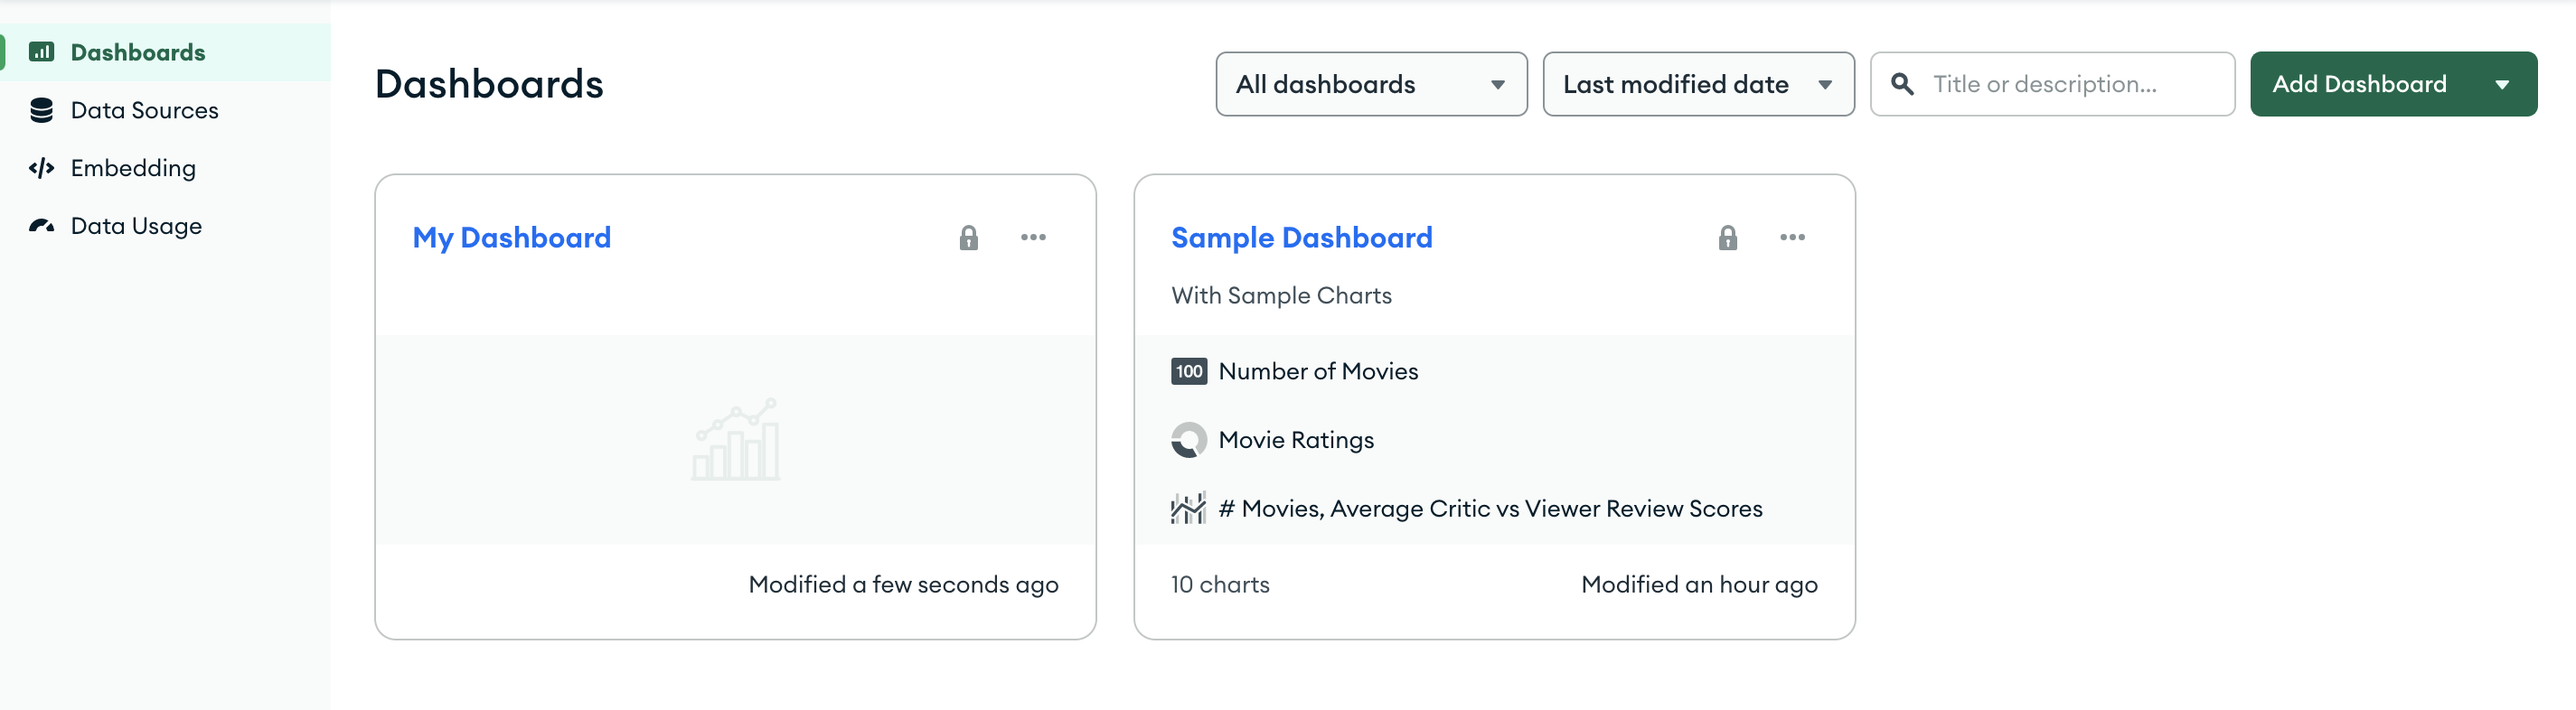
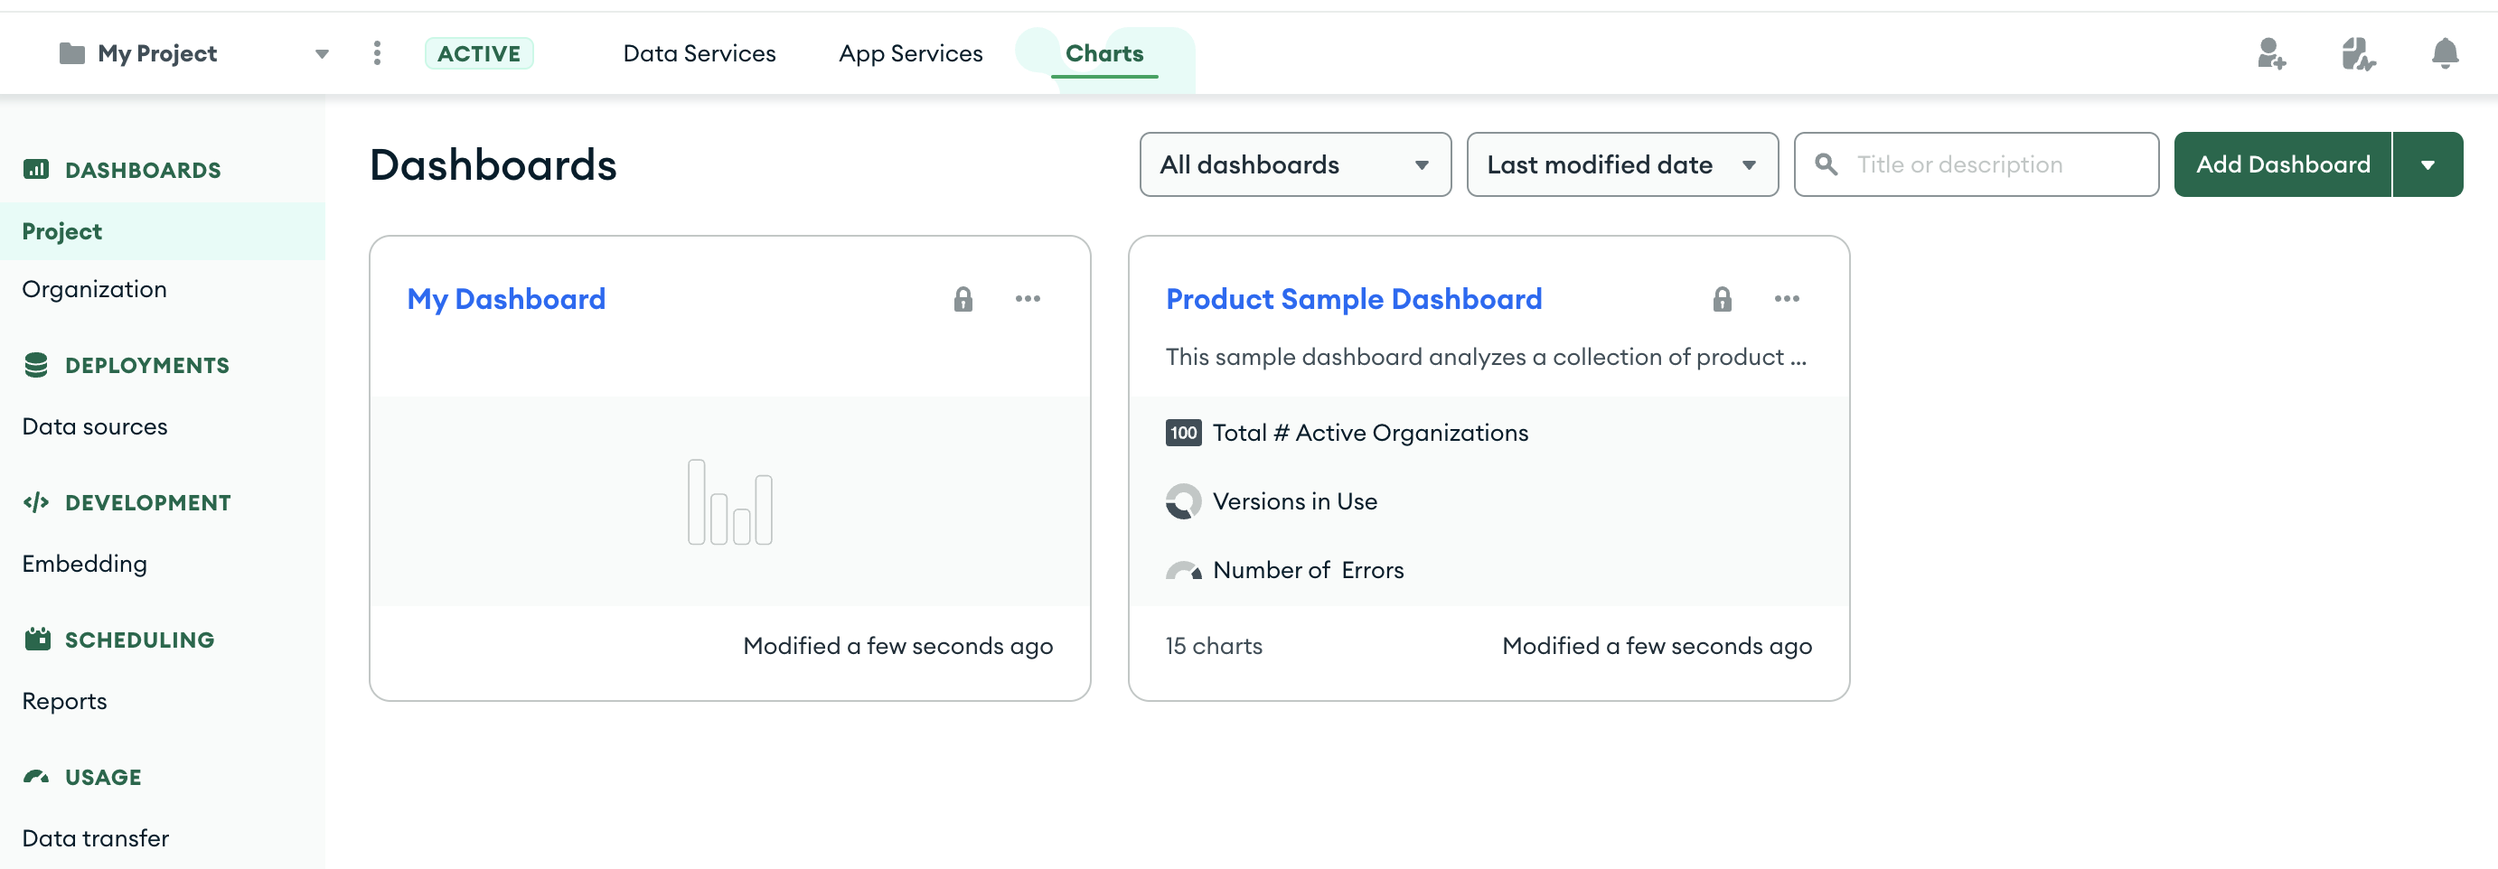
(DOCSP-32375) Update Dashboard landing (+ update Create a New Dashboard and Export a Dashboard procedures). (#615)
* (DOCSP-32375) edited Dashboards procedure.

* (DOCSP-32375) Formatting procedure.

* (DOCSP-32375) Formatting procedure.

* (DOCSP-32375) Formatting procedure.

* (DOCSP-32375) Added directions to reach Dashboards Page.

* (DOCSP-32375) Replaced Dashboard landing screenshot

* (DOCSP-32375) Edits.

* (DOCSP-32375) Edits.

* (DOCSP-32375) Edits.

* (DOCSP-32375) Edits.

* (DOCSP-32375) Formatted step

* (DOCSP-32375) Export dashboard procedure.

* (DOCSP-32375) Export dashboard procedure.

* (DOCSP-32375) Export dashboard procedure.

* (DOCSP-32375) Export dashboard procedure.

* (DOCSP-32375) Export dashboard procedure.

* (DOCSP-32375) Bullet list format.

* (DOCSP-32375) Bullet list format.

* (DOCSP-32375) Bullet list format.

* (DOCSP-32375) Bullet list format.

* (DOCSP-32375) Edited export charts (DOCSP-31734).

* (DOCSP-32375) Procedure formatting.

* (DOCSP-32375) Internal review edits.

* (DOCSP-32375) Internal review edits.

* (DOCSP-32375) Internal review edits.

diff --git a/source/includes/create-dashboard-steps.rst b/source/includes/create-dashboard-steps.rst
@@ -9,7 +9,7 @@ visualizations:
 
 1. Click the :guilabel:`Dashboards` tab.
 
-#. Click the :guilabel:`New Dashboard` button.
+#. Click the :guilabel:`Add Dashboard` button.
 
 #. Copy the following into the :guilabel:`Title` input:
 
